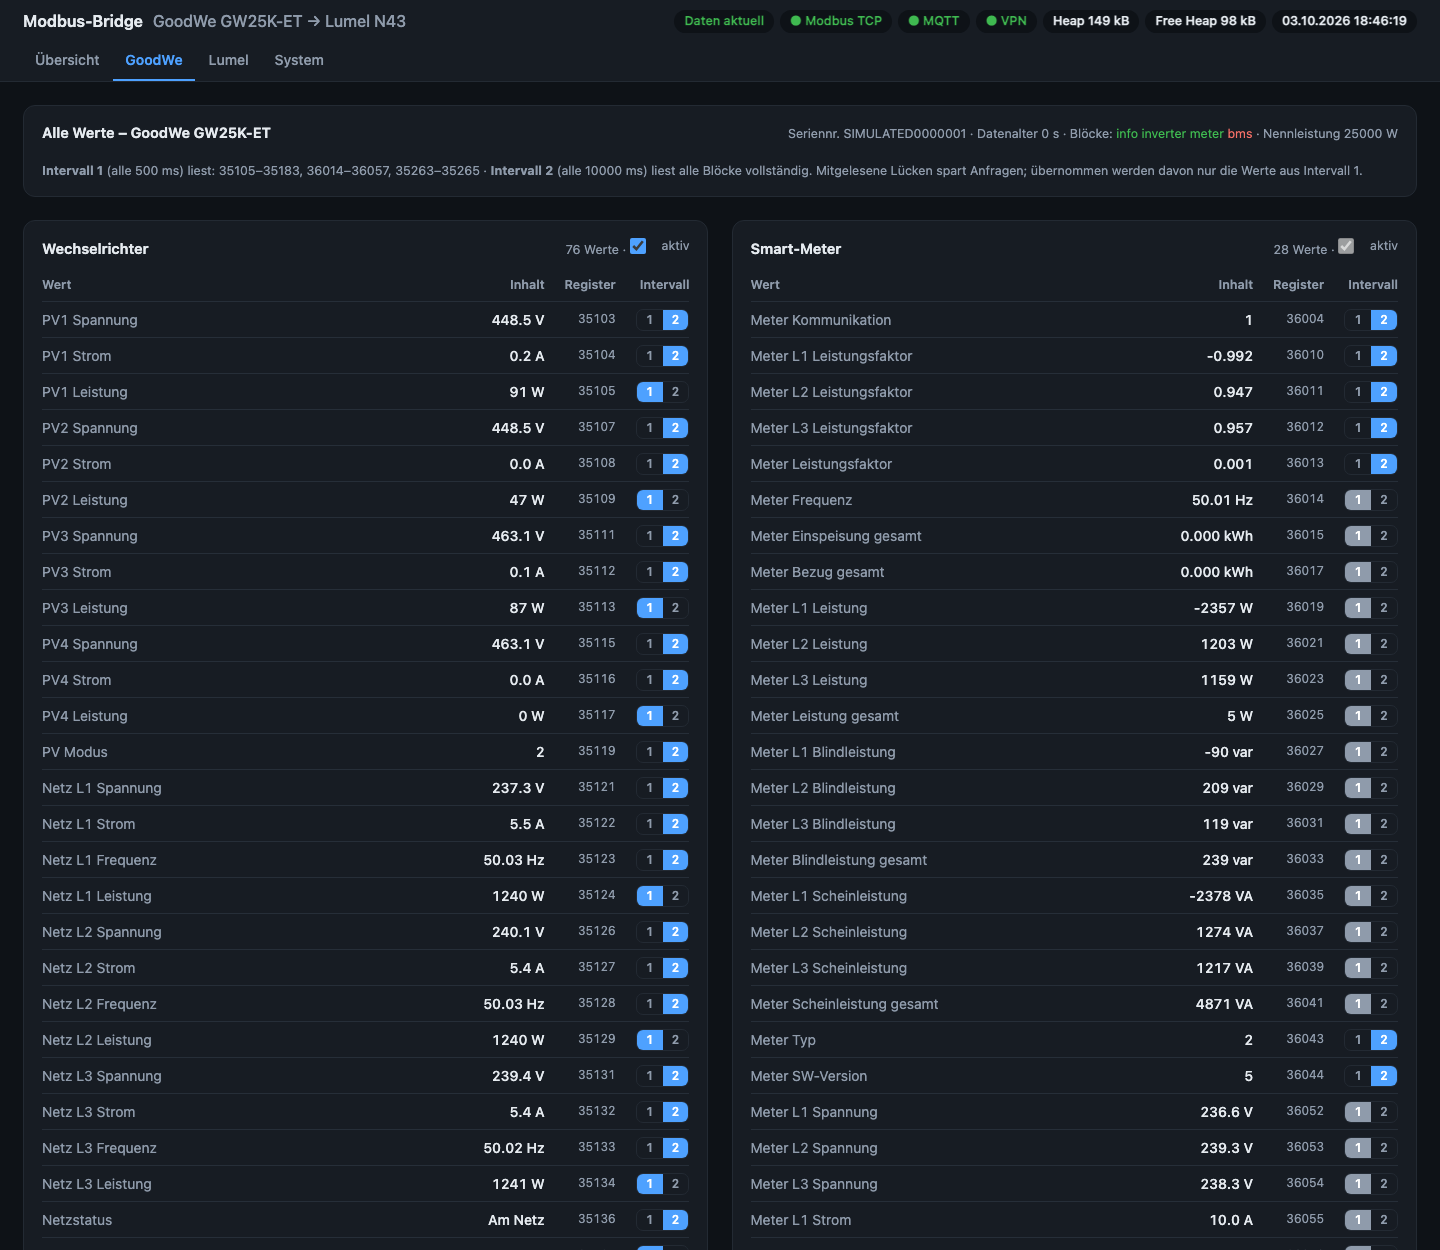
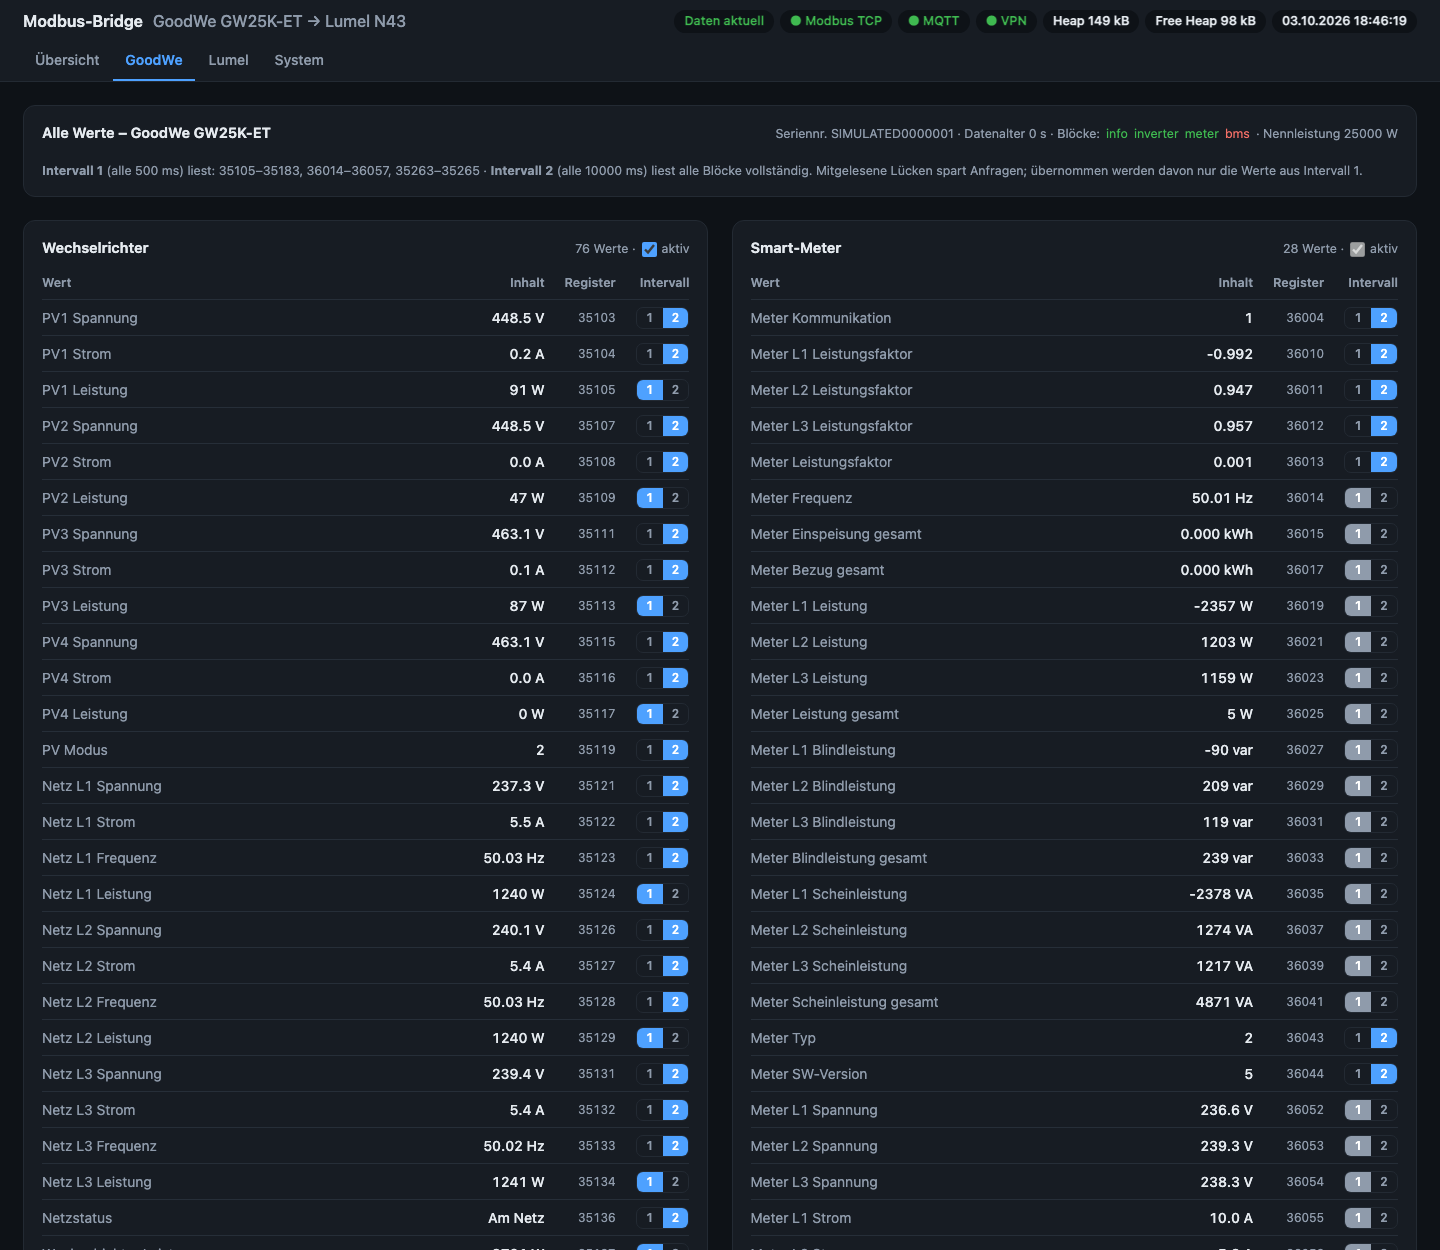
Weboberfläche: Ausrichtung und Silbentrennung (v2.9.9)
- Kartenkopf: Anzahl Werte und Schalter "aktiv" vertikal zentriert
- Tabellenzellen vertikal zentriert, Registernummer mittig zum Wert
- Wertnamen mit Silbentrennung statt Umbruch mitten im Wort
- Screenshot des Reiters GoodWe aktualisiert

diff --git a/src/web_ui.h b/src/web_ui.h
@@ -185,7 +185,7 @@ main > section > * + * { margin-top: var(--gutter); }
   margin-bottom: 10px;
 }
 .card-head h2, .card > h2 { font-size: 14.5px; margin: 0; font-weight: 650; }
-.card-meta { color: var(--mut); font-size: 12.5px; }
+.card-meta { color: var(--mut); font-size: 12.5px; display: inline-flex; align-items: center; gap: 6px; flex-wrap: wrap; }
 /* Fußzeile mit Aktionen: sitzt immer am unteren Kartenrand */
 .card-foot {
   display: flex;
@@ -230,6 +230,7 @@ main > section > * + * { margin-top: var(--gutter); }
 table { border-collapse: collapse; width: 100%; }
 td, th {
   padding: 6px 10px;
+  vertical-align: middle;
   text-align: right;
   border-bottom: 1px solid var(--line);
   font-variant-numeric: tabular-nums;
@@ -241,6 +242,7 @@ td:last-child, th:last-child { padding-right: 0; }
 th { font-weight: 600; color: var(--mut); font-size: 12.5px; }
 /* Messwerttabelle: feste Zahlenspalten, Beschriftung nimmt den Rest */
 .measure-table th:not(:first-child), .measure-table td:not(:first-child) { width: 15%; }
+.value-table td:first-child { overflow-wrap: normal; hyphens: auto; -webkit-hyphens: auto; }
 .value-table td:nth-child(2) { color: var(--fg); font-weight: 500; }
 .value-table td:nth-child(3) { color: var(--mut); font-size: 12px; width: 1%; }
 .pinmap td { text-align: left; white-space: normal; }
@@ -265,8 +267,8 @@ th { font-weight: 600; color: var(--mut); font-size: 12.5px; }
 .lumel-table td:nth-child(n+4) { color: var(--mut); font-size: 12px; }
 .lumel-table td:last-child { font-family: ui-monospace, SFMono-Regular, Menlo, monospace; white-space: nowrap; overflow: visible; }
 .identify-btn { margin-left: 8px; padding: 1px 10px; min-height: 0; font-size: 12px; vertical-align: 1px; }
-.card-meta .card-switch { display: inline-flex; margin: 0; font-size: 12.5px; color: var(--mut); gap: 6px; }
-.card-meta .card-switch input[type=checkbox] { width: 16px; height: 16px; }
+.card-meta .card-switch { display: inline-flex; align-items: center; margin: 0; font-size: 12.5px; line-height: 1; color: var(--mut); gap: 5px; }
+.card-meta .card-switch input[type=checkbox] { width: 15px; height: 15px; margin: 0; }
 .card-off h2 { color: var(--mut); }
 .kpi-label .pill { margin-left: 6px; font-size: 11.5px; padding: 0 8px; vertical-align: 1px; }
 .pill {
